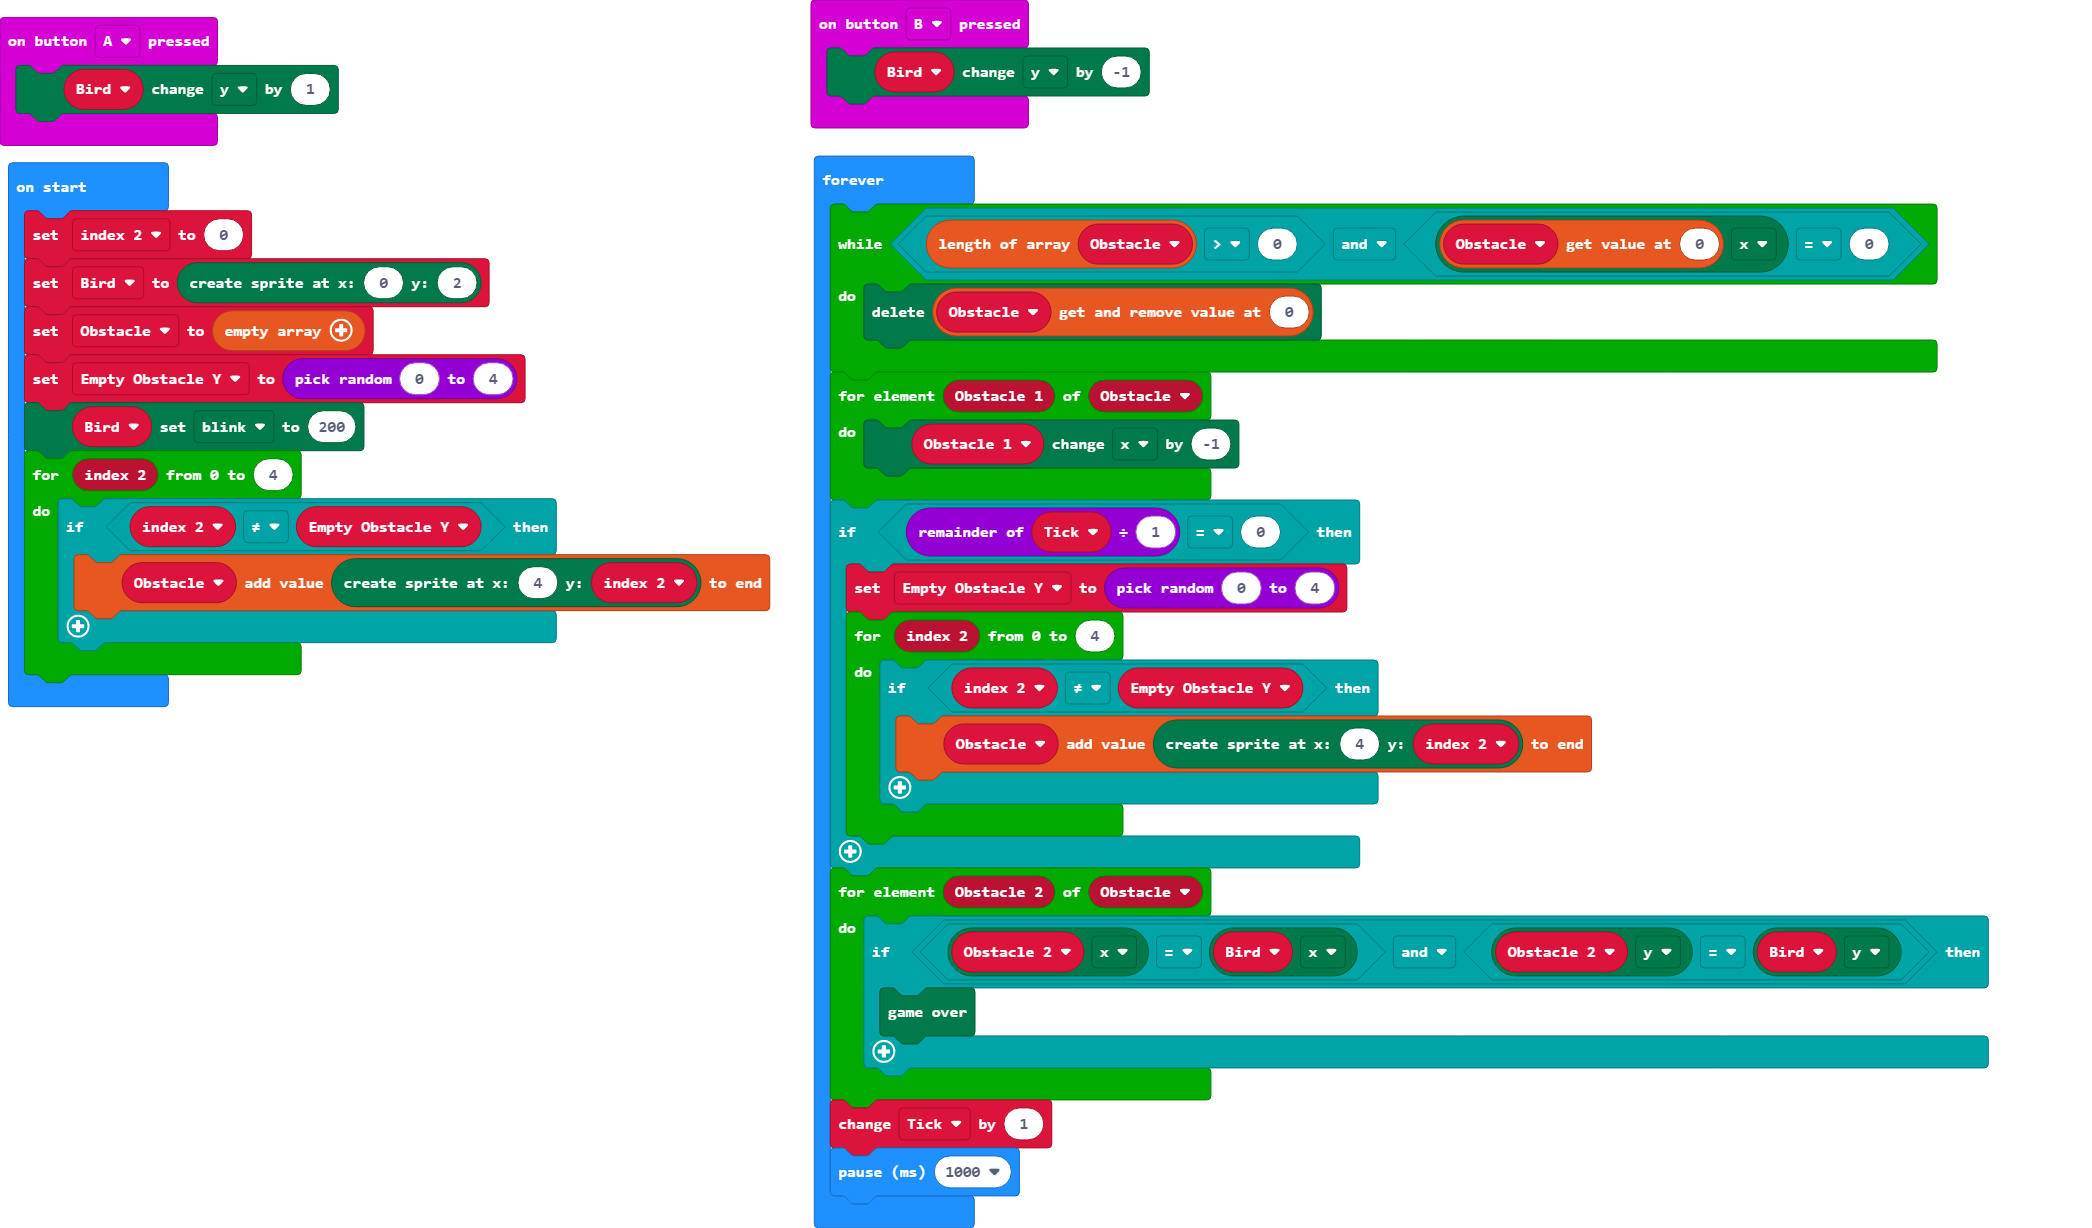
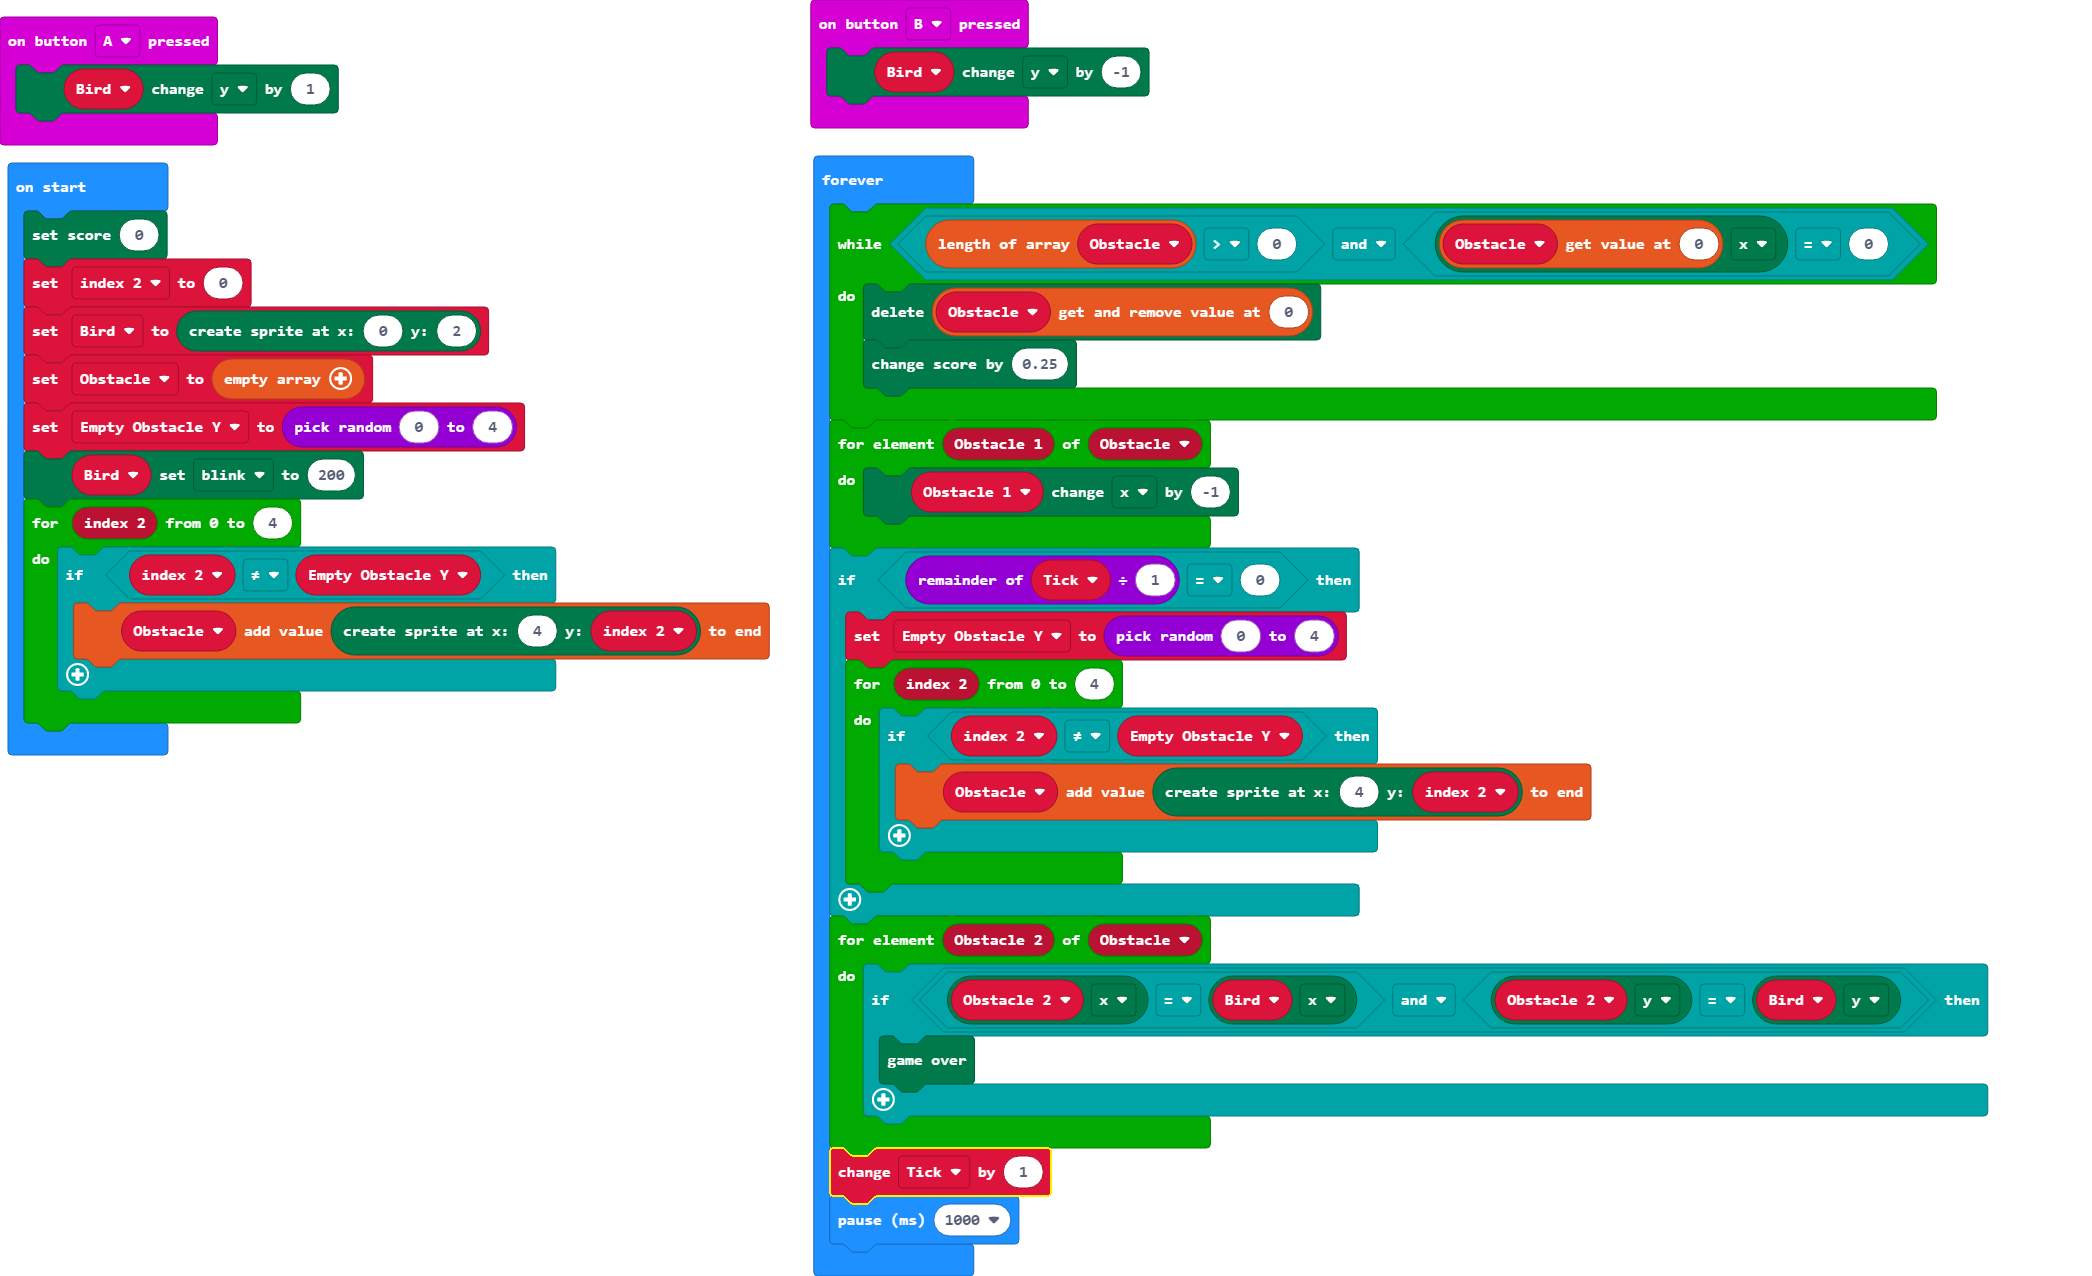
Update pxt.json, main.blocks, main.ts, main.py

Changed region(s): [[0.3728, 0.0, 0.9632, 0.9902], [0.0, 0.0, 0.3728, 0.6189]]

diff --git a/main.py b/main.py
@@ -20,7 +20,6 @@ for (let index_22 = 0; index_22 <= 4; index_22++) {
 basic.forever(function () {
     while (Obstacle.length > 0 && Obstacle[0].get(LedSpriteProperty.X) == 0) {
         Obstacle.removeAt(0).delete()
-        game.addScore(0.25)
     }
     for (let Obstacle_1 of Obstacle) {
         Obstacle_1.change(LedSpriteProperty.X, -1)
